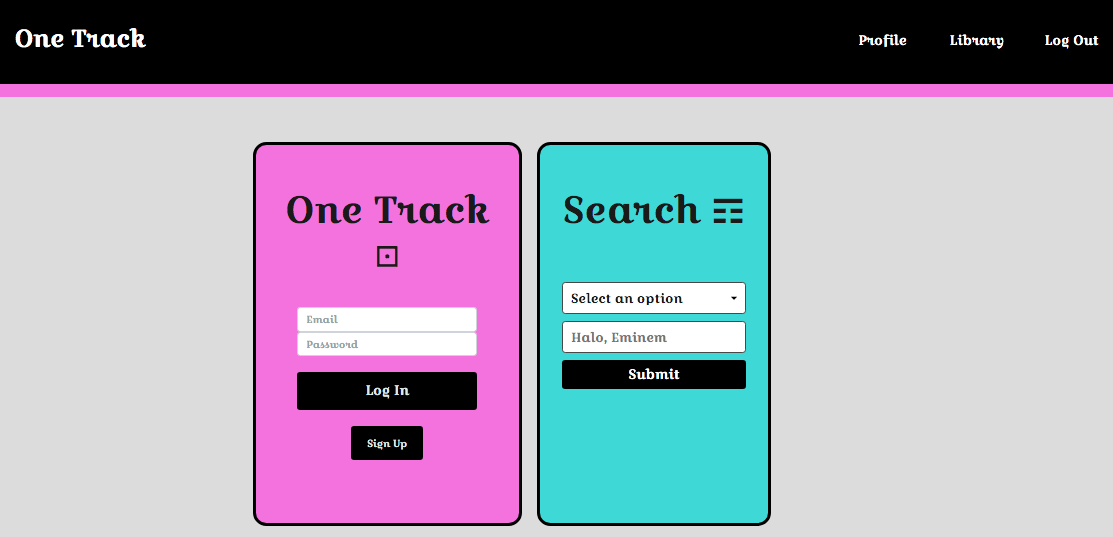
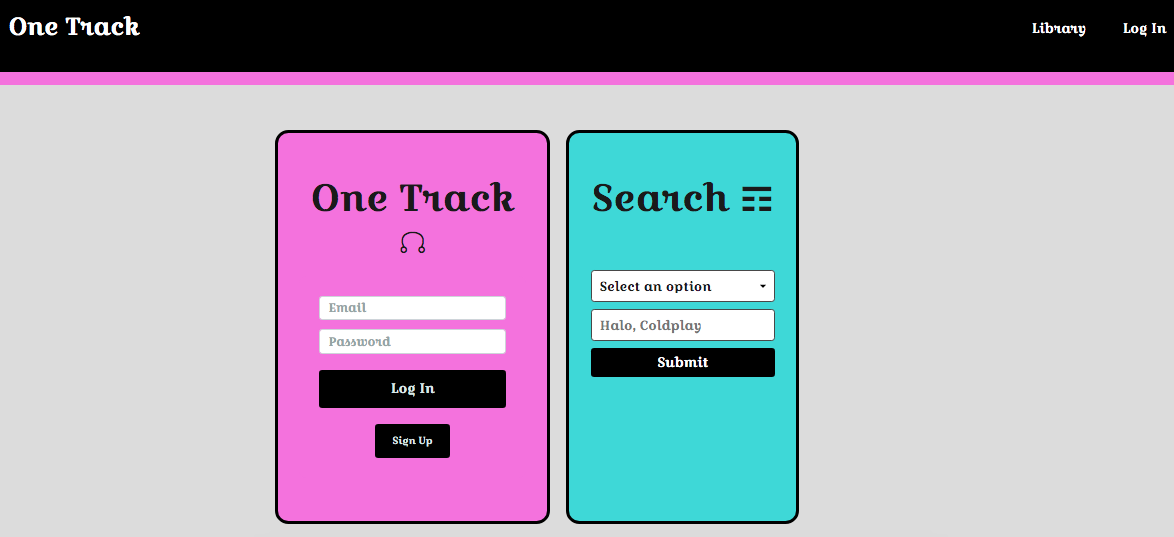
final edits

diff --git a/public/css/style.css b/public/css/style.css
@@ -64,9 +64,24 @@ body {
   position: relative;
 }
 
+#one-track-icon {
+  font-size: 55px;
+}
+
 #log-in, #login-page-btn {
   background-color: black;
   width: 100%;
+}
+
+#email-login {
+  margin-bottom: 5%;
+  font-size: 18px;
+  color: black
+}
+
+#password-login {
+  font-size: 18px;
+  color: black
 }
 
 #sign-up {
@@ -112,7 +127,7 @@ body {
 #jumbo-2 {
   background-color: rgb(81, 216, 216);
   position: relative;
-  height: 575px;
+  height: 590px;
   width: 100%;
 }
 
@@ -152,7 +167,7 @@ body {
   border: solid 5px black;
   width: 125%;
   height: 90%;
-  margin-left: -9%;
+  margin-left: -5%;
 }
 
 .mySlides1 {
@@ -260,7 +275,7 @@ body {
 }
 
 .table {
-  margin-left: -12%;
+  margin-left: -5%;
   width: 95%;
 }
 
@@ -383,7 +398,7 @@ tbody {
     margin-right: 10%;
     margin-left: 10%;
   }
-} 
+}  
 
 @media screen and (max-width: 600px) {
   .container {
@@ -424,7 +439,7 @@ tbody {
 
 @media screen and (max-width: 600px) {
   .table {
-    margin-left: -40%;
+    margin-left: -30%;
   }
 } 
 

diff --git a/README.md b/README.md
@@ -8,16 +8,16 @@ browse the best songs. develop your own personal music library
   - [Technologies](#technologies)
   - [Deployment](#deployment)
   - [License](#license)
-  - [Questions](#questions)
+  - [Contact](#contact)
   - [Screenshots](#screenshots)
 
    ## Team
 
-  Dev Team #1: Matt R., Mohamed A., Cortland S-B., Ted H.
+  Dev Team: Matt R., Mohamed A., Cortland S-B., Ted H.
   
   ## Description
 
-  This is a PC and mobile app designed for a user who wants to browse a music database and develop a profile page for their favorite songs. It also has the potential in the future to function as a platform for artists to be able to upload their own tracks, album art, and profile information. 
+  This is a PC and mobile app designed for a user who wants to browse a music database and develop a profile page for their favorite songs. It also has the potential in the future to function as a platform for artists to be able to upload their own tracks, album art, and profile info. 
   
   ## Technologies:
 
@@ -33,11 +33,11 @@ browse the best songs. develop your own personal music library
   
   [![License: MIT](https://img.shields.io/badge/License-MIT-yellow.svg)](https://opensource.org/licenses/MIT)
   
-  ## Questions
+  ## Contact
 
   * If you have any questions/concerns regarding the app, please contact me on GitHub here (see portfolio app for email): https://github.com/tedheikkila
 
-  * Here's the other collaborator's GitHub usernames as well: m-ray-ofSunshine, CortlandSB, mohamedabukar
+  * Here's the other collaborator's GitHub usernames: m-ray-ofSunshine, CortlandSB, mohamedabukar
 
 ## Screenshots
 
